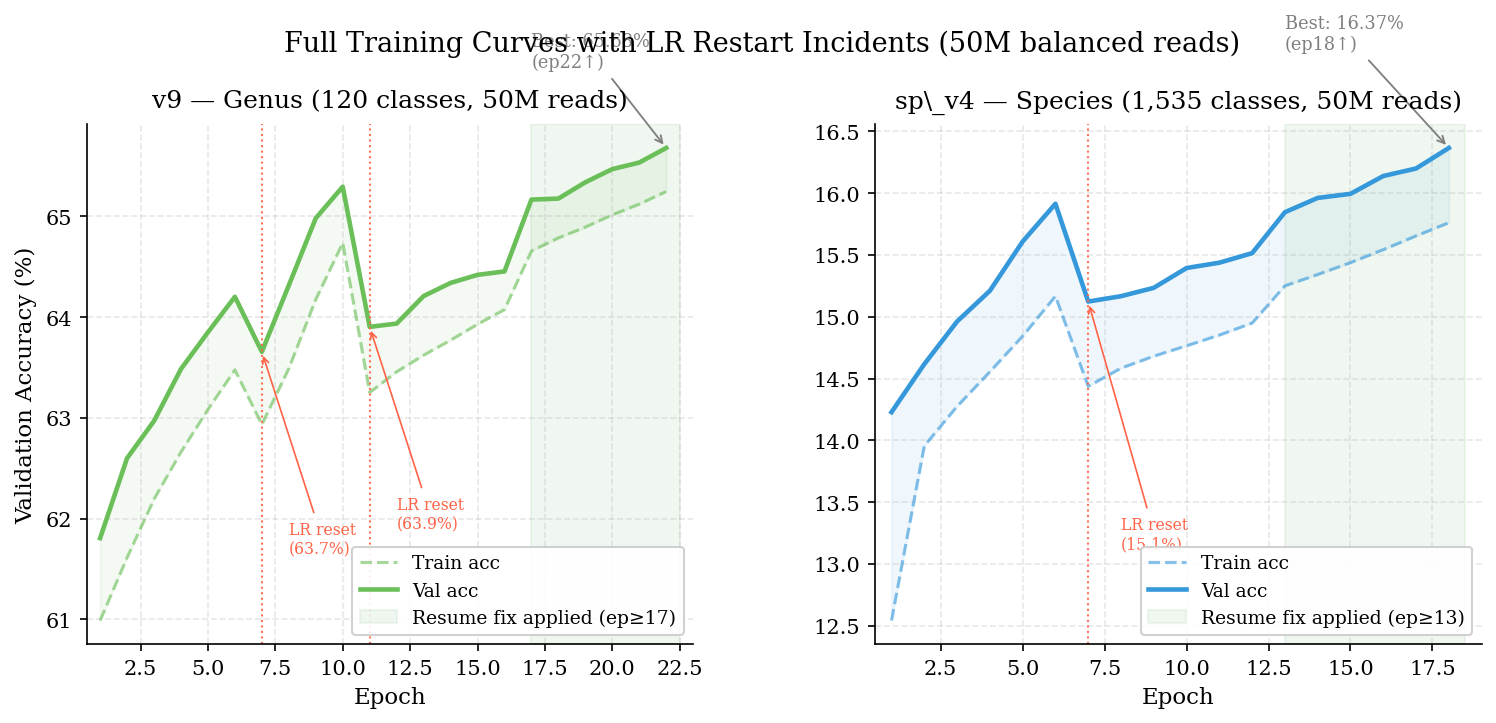
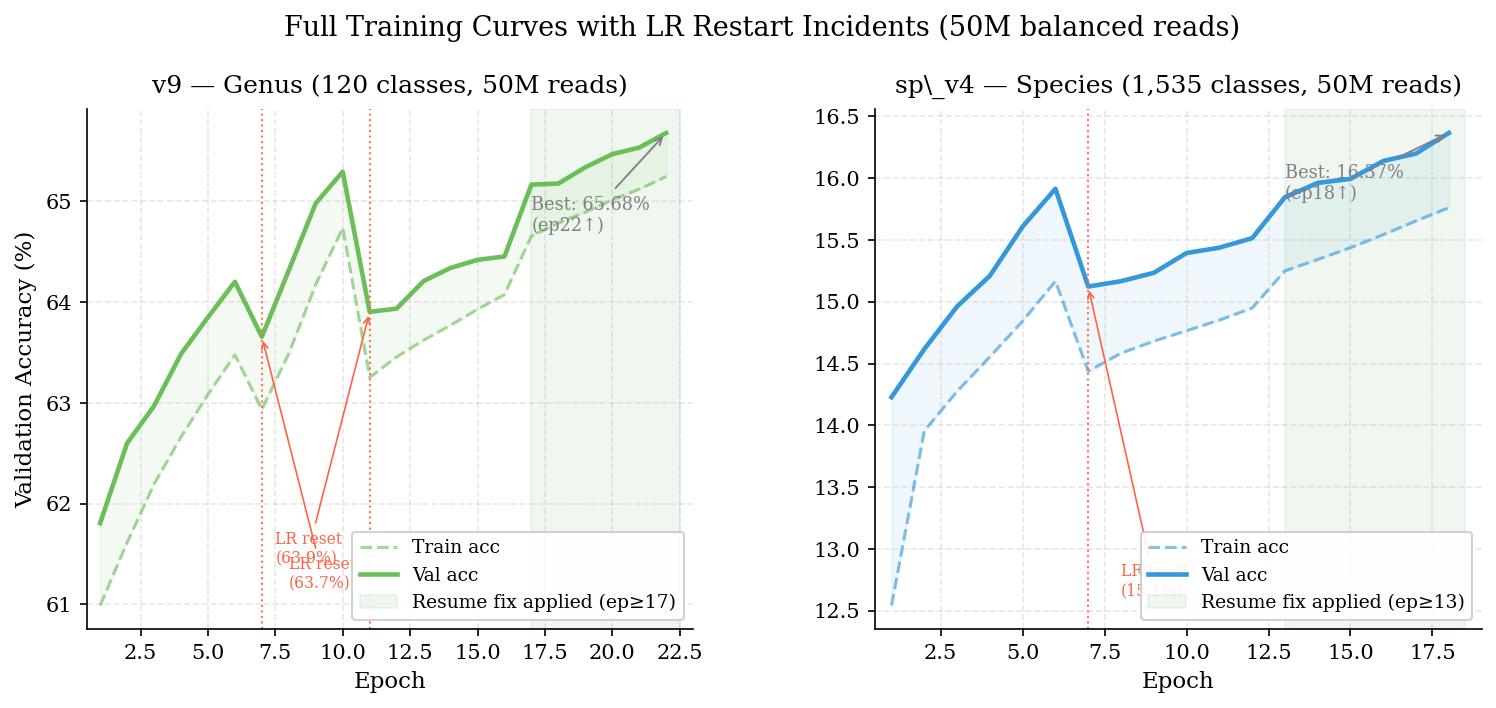
thesis: auto-save 2026-04-07 00:41

diff --git a/figures/generate_figures.py b/figures/generate_figures.py
@@ -335,32 +335,31 @@ def fig_learning_curves():
         ax.plot(epochs, val,   color=color, lw=2.2, label="Val acc")
         ax.fill_between(epochs, train, val, alpha=0.07, color=color)
 
-        # Mark LR restart epochs — alternate left/right to avoid overlap
-        for k, ep in enumerate(restarts):
+        # Mark LR restart epochs — label at top of vline, no arrow
+        ymin, ymax = val.min(), val.max()
+        yrange = ymax - ymin
+        for ep in restarts:
             idx = df[df["epoch"] == ep].index[0]
-            ax.axvline(x=ep, color="tomato", lw=1.0, ls=":", alpha=0.9)
             dip_val = df.loc[idx, "val_acc"] * 100
-            x_off = ep + 1.0 if k % 2 == 0 else ep - 3.5
-            ax.annotate(f"LR reset\n({dip_val:.1f}%)",
-                        xy=(ep, dip_val),
-                        xytext=(x_off, dip_val - 2.5),
-                        fontsize=7.5, color="tomato",
-                        arrowprops=dict(arrowstyle="->", color="tomato", lw=0.8))
+            ax.axvline(x=ep, color="tomato", lw=1.0, ls=":", alpha=0.9)
+            ax.text(ep + 0.25, ymin + yrange * 0.08,
+                    f"↓{dip_val:.1f}%", fontsize=7, color="tomato", va="bottom")
 
         # Shade "fixed resume" region
         ax.axvspan(fix_ep, epochs[-1] + 0.5, alpha=0.06, color="green",
                    label=f"Resume fix applied (ep≥{fix_ep})")
 
-        # Best annotation — always place text below the point to stay inside axes
+        # Best annotation — fixed axes-fraction position (upper-left area)
         best_idx = df["val_acc"].idxmax()
         bep  = df.loc[best_idx, "epoch"]
         bacc = df.loc[best_idx, "val_acc"] * 100
-        yrange = val.max() - val.min()
         ax.annotate(f"Best: {bacc:.2f}%\n(ep{int(bep)}↑)",
                     xy=(bep, bacc),
-                    xytext=(bep - 5 if bep > 6 else bep + 1, bacc - yrange * 0.25),
-                    fontsize=8.5, color="gray",
-                    arrowprops=dict(arrowstyle="->", color="gray", lw=0.9))
+                    xytext=(0.60, 0.25),
+                    xycoords=("data", "data"),
+                    textcoords="axes fraction",
+                    fontsize=8.5, color="dimgray",
+                    arrowprops=dict(arrowstyle="->", color="dimgray", lw=0.9))
 
         ax.set_title(title, pad=8)
         ax.set_xlabel("Epoch")
